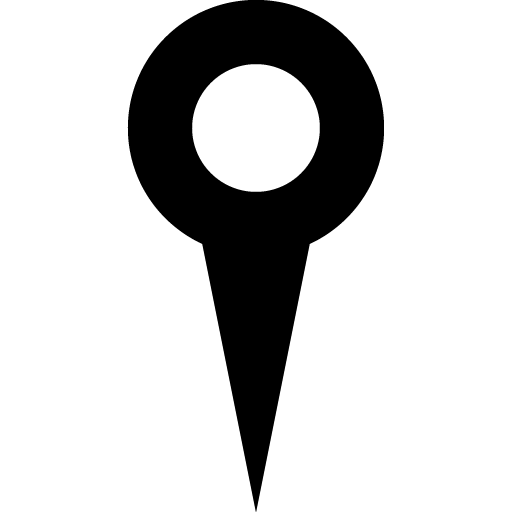
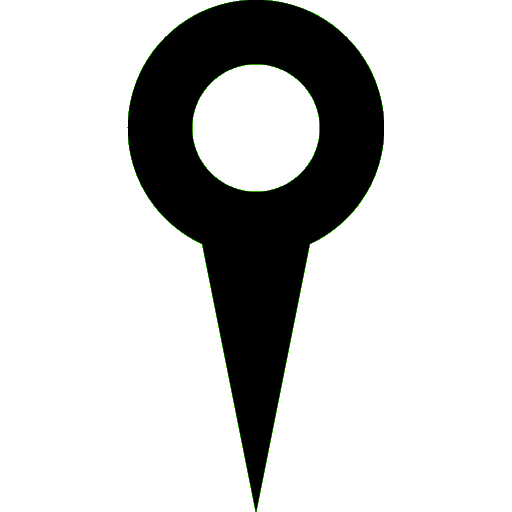
ajout marker custom red black green

diff --git a/raid-app/src/Components/Utilisateur/MapPage/MapPage.jsx b/raid-app/src/Components/Utilisateur/MapPage/MapPage.jsx
@@ -26,32 +26,32 @@ class MapPage extends React.Component {
                         attribution='&copy; <a href="http://osm.org/copyright">OpenStreetMap</a> contributors'
                         url='http://{s}.tile.osm.org/{z}/{x}/{y}.png'
                     />
-                    <Marker position={position1}>
+                    <Marker icon={iconRed} position={position1}>
                         <Popup>
                             <span>Wild Code School <br /> Easily customizable.</span>
                         </Popup>
                     </Marker>
-                    <Marker position={position2}>
+                    <Marker icon={iconRed} position={position2}>
                         <Popup>
                             <span>Wild Code School <br /> Easily customizable.</span>
                         </Popup>
                     </Marker>
-                    <Marker position={position3}>
+                    <Marker icon={iconRed} position={position3}>
                         <Popup>
                             <span>Wild Code School <br /> Easily customizable.</span>
                         </Popup>
                     </Marker>
-                    <Marker position={position4}>
+                    <Marker icon={iconRed} position={position4}>
                         <Popup>
                             <span>Wild Code School <br /> Easily customizable.</span>
                         </Popup>
                     </Marker>
-                    <Marker position={position5}>
+                    <Marker icon={iconRed} position={position5}>
                         <Popup>
                             <span>Wild Code School <br /> Easily customizable.</span>
                         </Popup>
                     </Marker>
-                    <Marker position={position6}>
+                    <Marker icon={iconRed} position={position6}>
                         <Popup>
                             <span>Wild Code School <br /> Easily customizable.</span>
                         </Popup>
@@ -78,11 +78,20 @@ const mapStateToProps = state => ({
     lng6: state.reducerMapPage.lng6,
 })
 
+const iconRed = new L.Icon({
+    iconUrl: require('../../../Img/map-default-red.png'),
+    iconRetinaUrl: require('../../../Img/map-default-red.png'),
+    iconSize: [50, 50],
+});
 const iconBlack = new L.Icon({
     iconUrl: require('../../../Img/map-default-black.png'),
     iconRetinaUrl: require('../../../Img/map-default-black.png'),
-    iconSize: [60, 60],
-    className: 'leaflet-div-icon'
+    iconSize: [50, 50],
+});
+const iconGreen = new L.Icon({
+    iconUrl: require('../../../Img/map-default-green.png'),
+    iconRetinaUrl: require('../../../Img/map-default-green.png'),
+    iconSize: [50, 50],
 });
 
 

diff --git a/raid-app/src/Components/Utilisateur/HomePage/HomePage.jsx b/raid-app/src/Components/Utilisateur/HomePage/HomePage.jsx
@@ -3,6 +3,7 @@ import '../../../App.css';
 import { NavLink } from 'react-router-dom';
 import logo from '../../../Img/RaidLyonLogo.png';
 import info from '../../../Img/info.png'
+import '../../../Css/Utilisateur/HomePage/HomePage.css'
 
 export default class HomePage extends React.Component {
     constructor(props) {
@@ -12,7 +13,7 @@ export default class HomePage extends React.Component {
 
     render() {
         return (
-            <div>
+            <div className="bodyHome">
                 <img className="LogoImg" src={logo} alt='homelogo' />
                 <img className="infologo" src={info} alt='homeinfo' />
                 <h1 className="TitreSession"> BIENVENUE <br /> A <br />RaidInLyon</h1>

diff --git a/raid-app/public/index.html b/raid-app/public/index.html
@@ -7,8 +7,7 @@
   <meta name="viewport" content="width=device-width, initial-scale=1, shrink-to-fit=no">
   <meta name="theme-color" content="#000000">
 
-
-
+  <link href="https://fonts.googleapis.com/css?family=Lilita+One|Signika+Negative" rel="stylesheet">
   <!--
       manifest.json provides metadata used when your web app is added to the
       homescreen on Android. See https://developers.google.com/web/fundamentals/web-app-manifest/

diff --git a/raid-app/src/Css/Utilisateur/HomePage/HomePage.css b/raid-app/src/Css/Utilisateur/HomePage/HomePage.css
@@ -1,0 +1,4 @@
+.bodyHome{
+    font-family: 'Lilita One', cursive;
+}
+
